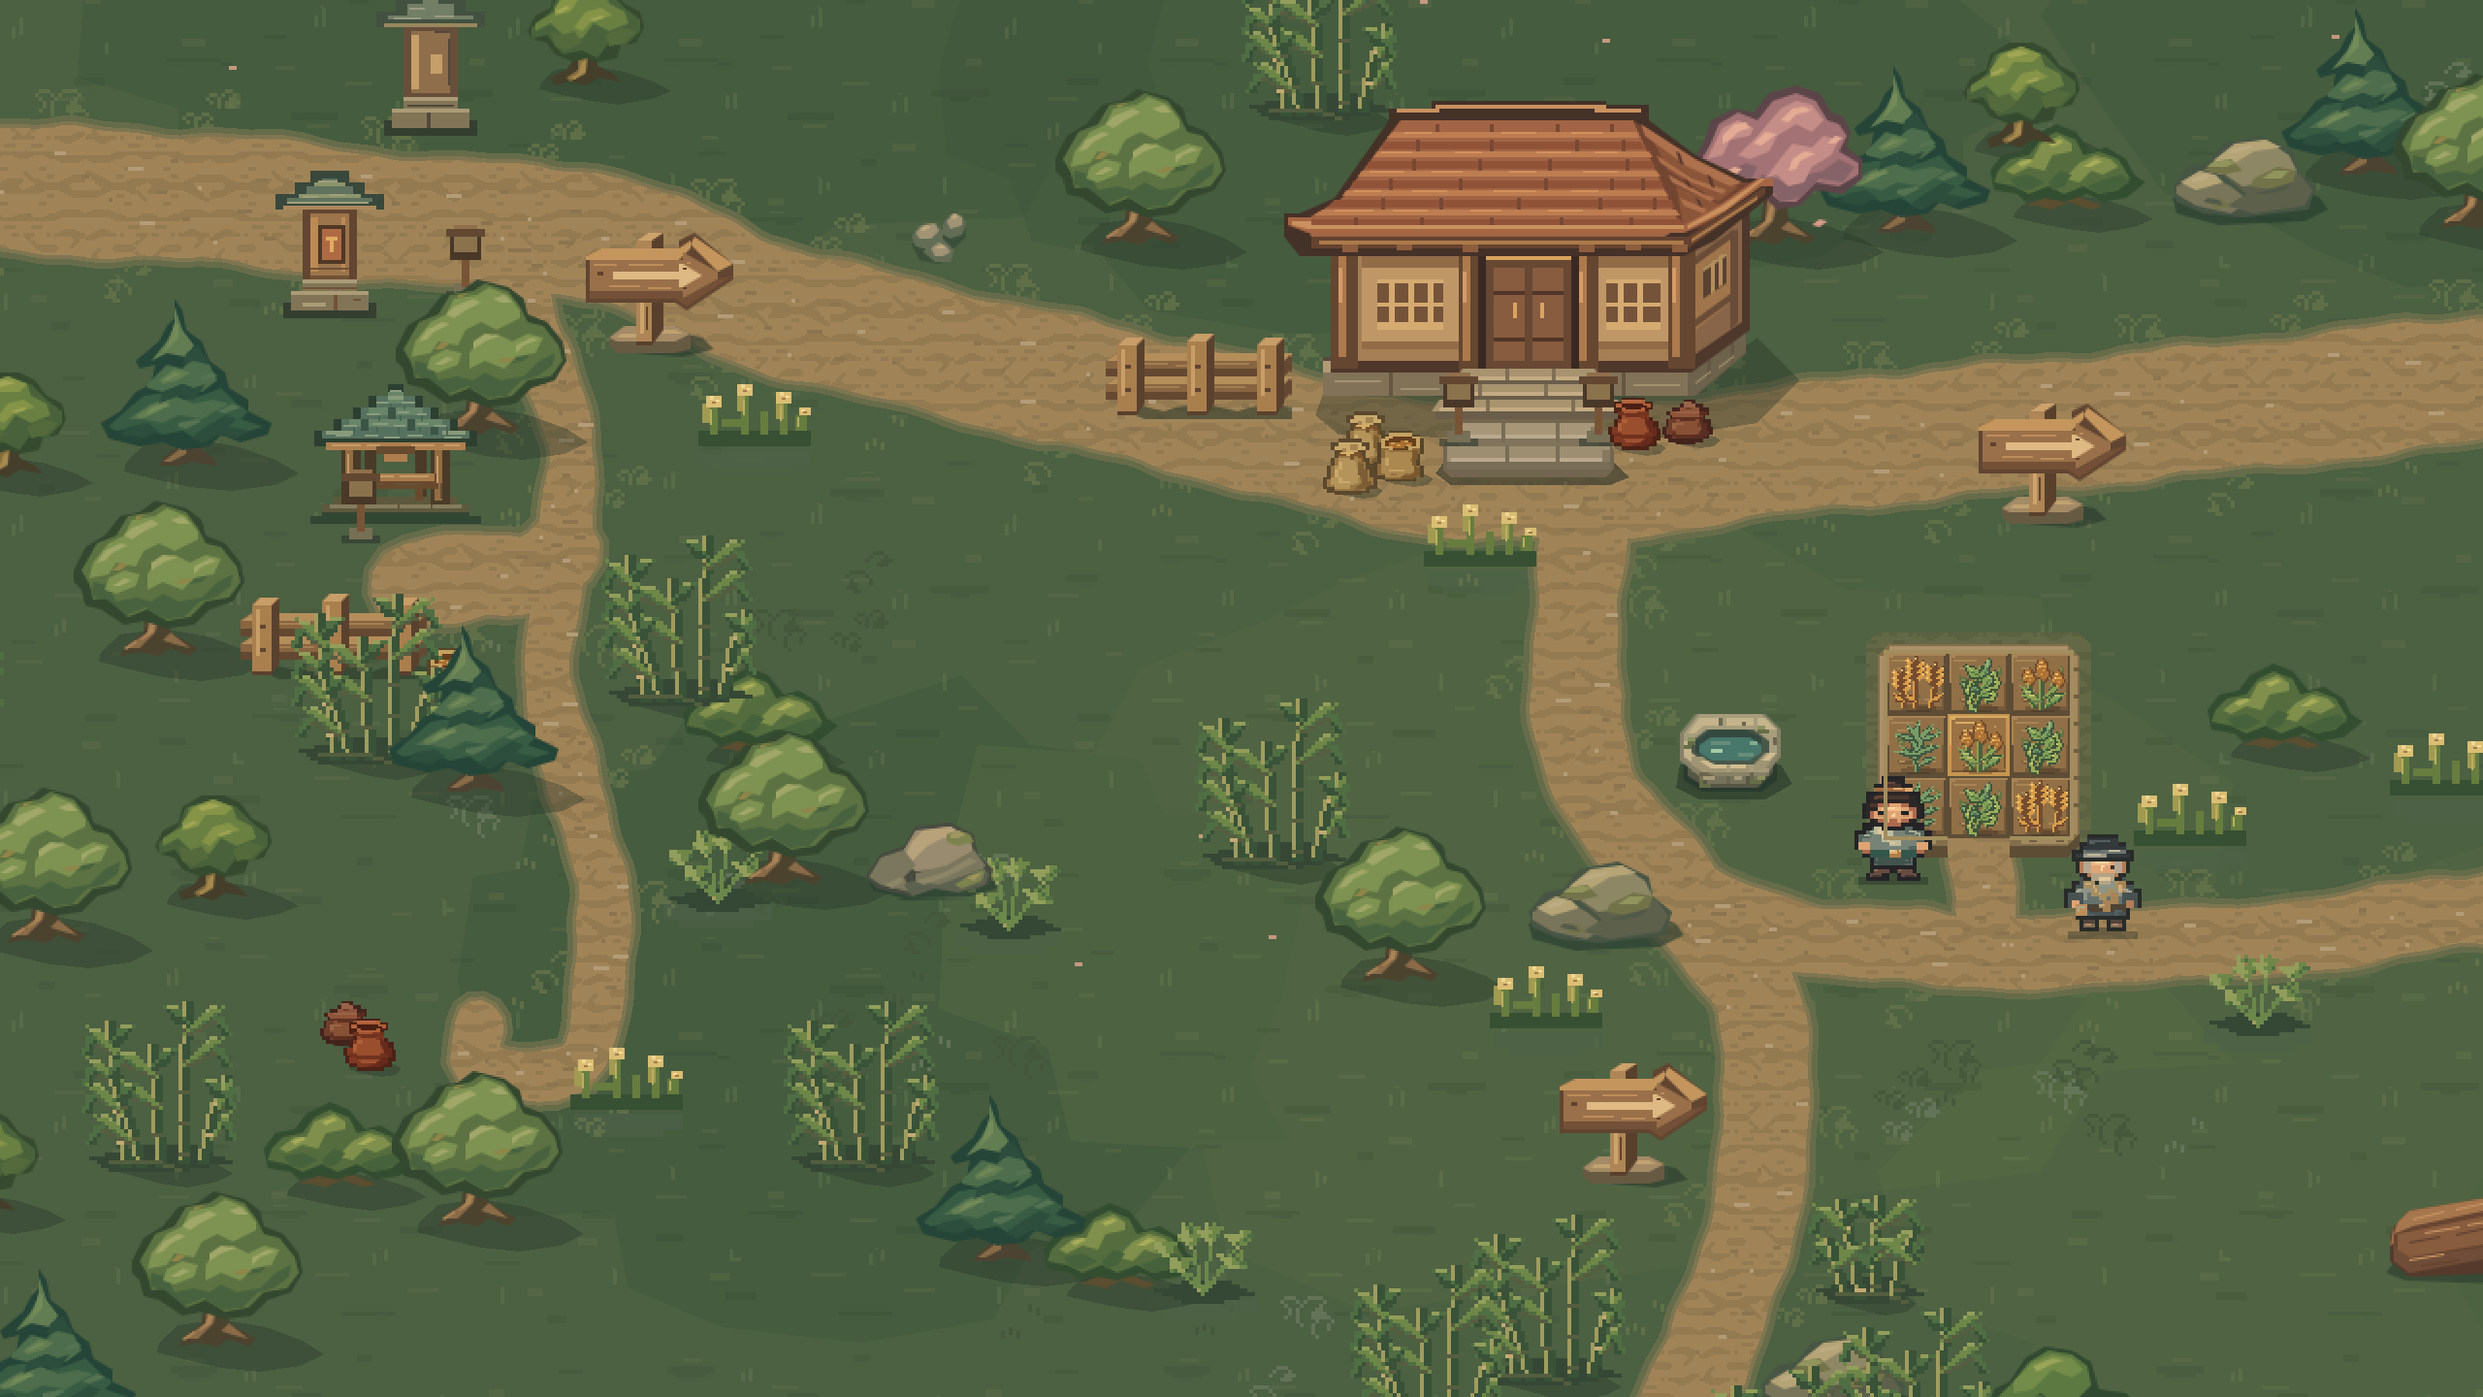
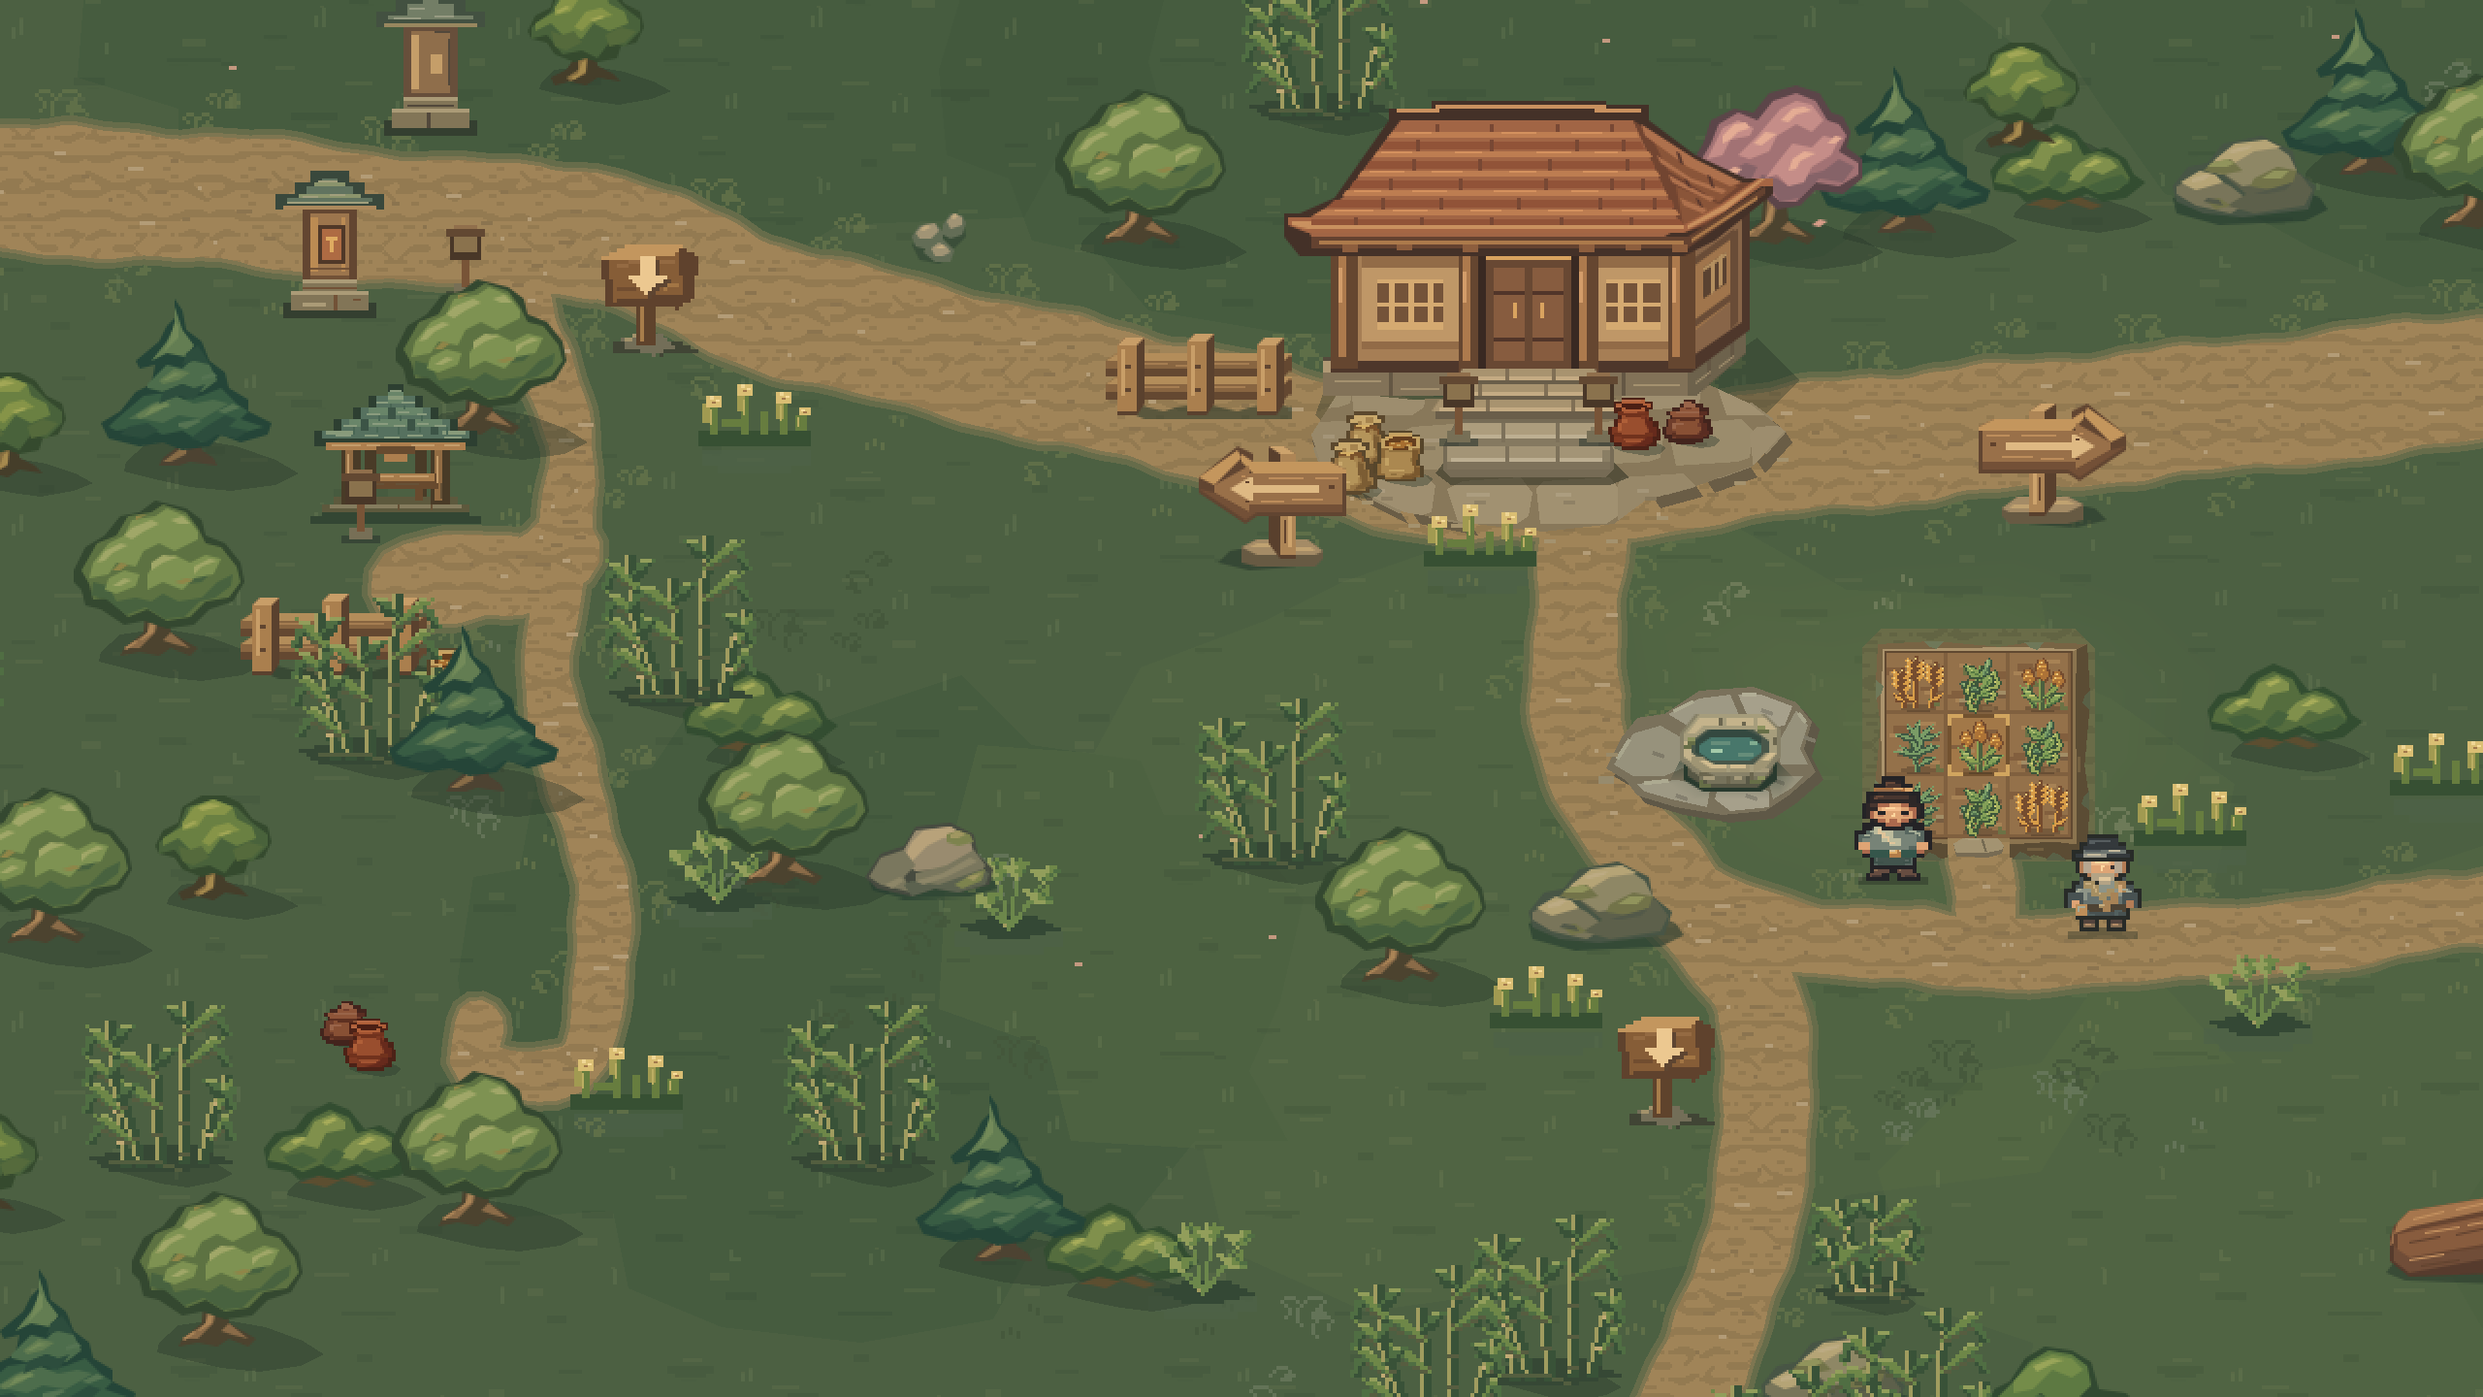
feat: 铺设堂前石坪与泉边踏石

diff --git a/tasks/polish.md b/tasks/polish.md
@@ -21,7 +21,7 @@
 - **经营到结局**。按自己的节奏选一条路线，记下哪几天改变了经营方式、哪些操作重复得最累、哪次遇见人物或走过某处让你想再去。结算后退出，再从标题「继续游戏」读回，核对路线和结算日期。
 - **回报**。记下系统和显卡、键鼠或手柄、实际窗口尺寸、总游玩时间及停在的游戏日期。能复现的问题附上当时的截图或一段操作顺序。画面、节奏和手感直接写感受即可。
 
-本包包含封地、溪桥道、西市和竹涧的固定斜俯视地图。 井田的九格沿浅缝分辨，中央公田有金角。顺着田口踏石可下田。顺着木牌可去南路亭、西市和桥东草甸。穿过东关后可循岔路木牌去野果坳、浅滩、南路小径和望溪台。从木桥西头沿溪向北可到柳湾，或踏过桥口片石，沿东岸缓坡和宽窄相间的石阶上望溪台。进西市东口可找到晒布院，请染工阿苓指路去绸摊。按住 Shift 或手柄 LT 可一次处理一块井田内同类的农事。第一次纳贡后可从手记接上轮作并安排井田管事。首茬收成后，有照料门客时可把未翻地也排入下茬计划。首茬收成选择留作物后，可按交货簿标出的私田补种、浇水和收获，货齐就能循路去西市。换季前可从下季预告提前标出私田，或托管事给时令单种一茬。有门客分管田务后，可在「今夜安排」勾选「过夜前让门客收工」，睡前先做剩余时辰能完成的田务。返回封地时可看到这趟外出增加的田务，睡前查当天累计，次日从「昨夜结算」重读。右上日期栏可为秋社留谷样、为冬至按菜留料。市场批量补粮会先预留这些作物、本季和已跟踪的下季货物，以及最近一期已备足的研究费。夏单到货后可走上南池西岸的钓台，冬至缺鱼可从历书或禾伯处指路过去。议税前可从筹备账在井田页暂缓私田续播，定案后接着用各格原来的种法。结局时，参与本局经营的一位留任门客会到场。解压版已回放两条新档路线、战败恢复、延期研究和两个结局退出重启。 [本轮试玩包](../build/polish-ravine-terrace/release/final/windows/Fiefdom-1.0.0-Windows-x64.zip) · [本包校验](../build/polish-ravine-terrace/release/final/hash.log)
+本包包含封地、溪桥道、西市和竹涧的固定斜俯视地图。堂前石坪接南行土路，路边踏石通到泉眼。井田的九格沿浅缝分辨，中央公田有金角。顺着田口踏石可下田。顺着木牌可去南路亭、西市和桥东草甸。穿过东关后可循岔路木牌去野果坳、浅滩、南路小径和望溪台。从木桥西头沿溪向北可到柳湾，或踏过桥口片石，沿东岸缓坡和宽窄相间的石阶上望溪台。进西市东口可找到晒布院，请染工阿苓指路去绸摊。按住 Shift 或手柄 LT 可一次处理一块井田内同类的农事。第一次纳贡后可从手记接上轮作并安排井田管事。首茬收成后，有照料门客时可把未翻地也排入下茬计划。首茬收成选择留作物后，可按交货簿标出的私田补种、浇水和收获，货齐就能循路去西市。换季前可从下季预告提前标出私田，或托管事给时令单种一茬。有门客分管田务后，可在「今夜安排」勾选「过夜前让门客收工」，睡前先做剩余时辰能完成的田务。返回封地时可看到这趟外出增加的田务，睡前查当天累计，次日从「昨夜结算」重读。右上日期栏可为秋社留谷样、为冬至按菜留料。市场批量补粮会先预留这些作物、本季和已跟踪的下季货物，以及最近一期已备足的研究费。夏单到货后可走上南池西岸的钓台，冬至缺鱼可从历书或禾伯处指路过去。议税前可从筹备账在井田页暂缓私田续播，定案后接着用各格原来的种法。结局时，参与本局经营的一位留任门客会到场。解压版已回放两条新档路线、战败恢复、延期研究和两个结局退出重启。 [本轮试玩包](../build/polish-estate-court/release/final/windows/Fiefdom-1.0.0-Windows-x64.zip) · [本包校验](../build/polish-estate-court/release/final/hash.log)
 
 ## 从新档到第一次收获
 
@@ -1352,3 +1352,10 @@
 - 由东关实际走过片石、木桥和宽阶到野药平台，半途可从缓坡下到东岸草地。脚步随片石、木板和草地变化，崖脚和瀑下深水会挡住角色，下游从踏石处可渡溪。在谷雨、立冬和暮色复走。 [默认窗口回放](../build/polish-ravine-terrace/release/final/native-default/replay.log) · [过桥下坡](../build/polish-ravine-terrace/release/final/native-default/frames/01e-bridge-verge.png) · [雨中桥东](../build/polish-ravine-terrace/release/final/native-default/frames/06a-east-bank-rain.png) · [立冬登台](../build/polish-ravine-terrace/release/final/native-default/frames/08a-lookout-steps-frost.png)
 - 上版 Windows 通过游戏内设置留下「木桥西端水迹」手动档。新版在 1024×768 从标题继续，走到原立牌记下水迹，再沿石阶登台并到野果坳采集，粮食由 10 增至 15。原存档和两份验证副本的校验值一致。 [1024×768 旧档登台](../build/polish-ravine-terrace/release/final/previous-waypoint/frames/02-old-route-arrival.png) · [续档回放](../build/polish-ravine-terrace/release/final/previous-waypoint/replay.log) · [旧档校验](../build/polish-ravine-terrace/release/final/previous-save-integrity.log)
 - 119 项源码场景、27 项 Windows 无窗口检查及发行脚本的 30 次隔离桌面运行通过。1920×1080 和 1024×768 都从东关走进竹涧，验证上下坡、踏石过溪和野药站位。独立新档在第 56 天达成传统结局、第 59 天达成改革结局，均可退出重启读回。连续运行 91.105 秒通过，两次干净并行构建的校验值一致。首次玩家独立上手和人工长线试玩仍待验收。 [Windows 1.0 x64](../build/polish-ravine-terrace/release/final/windows/Fiefdom-1.0.0-Windows-x64.zip) · [源码回归](../build/polish-ravine-terrace/source-final.log) · [无窗口发行验证](../build/polish-ravine-terrace/release/final/headless.log) · [隔离桌面发行验证](../build/polish-ravine-terrace/release/final/capture.log) · [1024×768 桥东](../build/polish-ravine-terrace/release/final/capture/1024x768/01d-bridge-to-lookout.png) · [重建校验](../build/polish-ravine-terrace/release/final/reproducible.log)
+
+## 堂前石坪和泉边踏石
+
+- 堂屋台阶下铺宽石坪，谷袋和陶罐落在石面上。石坪向南行土路留出磨低的出口。泉眼周围的石板向路边展开，泉脚的阴影沿石板淡开。默认 1920×1080 从标题开新档，在同一机位看得见堂前、泉眼和九格井田。 [上版首日同机位](../build/polish-estate-court/before/frames/00a-untilled-field.png) · [新版首日](../build/polish-estate-court/release/final/native-default/frames/00a-untilled-field.png)
+- 实际走上堂阶和泉边石板会响石面脚步。下田经过田口石面后换为土声，既有渠板响木声。谷雨的扩田回放中，水从泉口接入渠线，仍可由木板过渠。上一版第 6 天手动档在 1024×768 续读，水源对白报出一块井田接水，档内稻苗、一份公田纳贡和 7 铜钱均核对通过。 [泉边实走](../build/polish-estate-court/release/final/native-default/replay.log) · [谷雨接渠](../build/polish-estate-court/release/final/native-default/frames/03-rain-and-second-field.png) · [旧档水源](../build/polish-estate-court/release/final/previous-checkpoint/frames/07-restored-coverage.png) · [旧档校验](../build/polish-estate-court/release/final/previous-save-integrity.log)
+- 标题的清晨和薄暮背景从新版封地取景，两个 2560×1440 的 RGB 画面都用引擎在隔离桌面渲染。 [清晨](../build/polish-estate-court/title-art/frames/estate-morning.png) · [薄暮](../build/polish-estate-court/title-art/frames/estate-dusk.png) · [取景记录](../build/polish-estate-court/title-art/replay.log)
+- 119 项源码场景、26 项 Windows 无窗口检查及发行脚本的 29 次隔离桌面运行通过。1920×1080 和 1024×768 都走过新铺石面，并实际接渠、断渠、再接通到稻谷收成。普通新档在第 56 天达成传统结局、第 59 天达成改革结局，均可重启读回。连续运行 90.878 秒通过，两次干净并行构建的校验值一致。首次玩家独立上手和人工长线试玩仍待验收。 [Windows 1.0 x64](../build/polish-estate-court/release/final/windows/Fiefdom-1.0.0-Windows-x64.zip) · [源码回归](../build/polish-estate-court/source-final.log) · [无窗口发行验证](../build/polish-estate-court/release/final/headless.log) · [隔离桌面发行验证](../build/polish-estate-court/release/final/capture.log) · [1024×768 堂前](../build/polish-estate-court/release/final/capture/1024x768/02b-hall-landing.png) · [1920×1080 标题](../build/polish-estate-court/release/final/capture/1920x1080/02-dusk-title.png) · [重建校验](../build/polish-estate-court/release/final/reproducible.log)

diff --git a/docs/game_design/06_地形系统_完整.md b/docs/game_design/06_地形系统_完整.md
@@ -33,7 +33,7 @@
 
 从堂前向东，直走过东关可去竹涧。关前沿路牌往东南转，穿过林边坡道到驾御场。井田南口的木牌向南，通向南路亭。西廊、西坡、灶台和南池的木牌也沿岔路走向刻画箭头，地名在牌头显示。马车向南起步，穿过四道旗门后向东转进停车场。驾御场在可开垦田地以东，舆图和地面指路都绘出从主路到马车的岔路。东路岗由井田南边的横路抵达，弋戎在岗前等候。松林隔在守备岗和练车路之间。
 
-堂前石坪的两级台阶朝土路展开，踏面见光，立面和路上的投影较暗。从石前坪向北走过堂屋门槛，可进入室内。堂屋随封地载入，出入共用路口的淡出淡入，屋内的固定镜头可同时看到书案、床榻和南门。室内与封地共享时辰和田务结算。走出南门会回到堂前，舆图在室内将当前位置标在堂前。
+堂前的两级石阶接到宽石坪，石坪朝南行土路留出磨低的边缘。可从石坪向北走过堂屋门槛，也可沿南行道到泉边。泉眼外的踏石向土路展开，围绕泉眼留有站位，接渠后能看见水从石口流出。堂前台阶和泉边踏石有石面脚步，踏上过渠木板则响木声。堂屋随封地载入，出入共用路口的淡出淡入，屋内的固定镜头可同时看到书案、床榻和南门。室内与封地共享时辰和田务结算。走出南门会回到堂前，舆图在室内将当前位置标在堂前。
 
 靠近书案按 E 研读简册，与管理面板共用每天一次的研读机会。靠近床榻按 E 查看田务和口粮，点「过夜」推进一天。屋内存档和晨间档从床榻旁继续。
 

diff --git a/docs/game_design/11_美术音效需求.md b/docs/game_design/11_美术音效需求.md
@@ -53,6 +53,8 @@ Windows 版默认窗口和画面渲染分辨率为 1920×1080，画面比例为 
 
 本作以站姿实际着色的 27 像素衡量门面，以 14×14 的脚底碰撞校准通行，以 16×16 田格衡量道路和建筑宽度。单人常走的小径至少一格宽，能并行的主路至少两格宽。关柱各按石基的位置排序与碰撞。镜头缩放同时作用于人物、地表和建筑。
 
+堂屋的石阶下铺宽石坪，谷袋和陶罐落在石面上。石坪两侧的浅立面向下接土路，南边留有通向井田的磨平入口。泉边薄石板朝土路伸开，泉口的阴影沿石缝减淡，泉眼仍按石基与人物的脚底位置遮挡。雨天石面压暗，入冬后石沿见霜。
+
 场景里的物件沿用同一套斜俯视。路牌和木栏露出板厚及柱顶，堆木露出亮木面和断面。陶罐用亮口沿、深色内壁和罐身弧面区分开口与带盖，谷袋露出袋口与垂下的袋身。光从画面左上来，树和器物的影子从着地处向右下展开，遇雨变淡。高物件以脚底排序，玩家走到它们后面会被挡住一部分。亭东雨棚的前柱单独按柱脚排序，居民与席案可以出现在棚内。野果和野药用叶片朝向区分枝叶的高低，采过后当天可见果实或嫩梢减少。舆图沿用俯视示意，背包图案用物件原有的轮廓和配色，以小尺寸下能辨认种类为准。
 
 西市到南路的木车有侧面、斜向内外和两种端面，左右沿路向镜像。车斗底、货物和近侧护栏分层绘制，阴影落在轮下。转弯按车辕朝向换帧，申禾领车走在车辕前，停稳后站到交谈的一侧。
